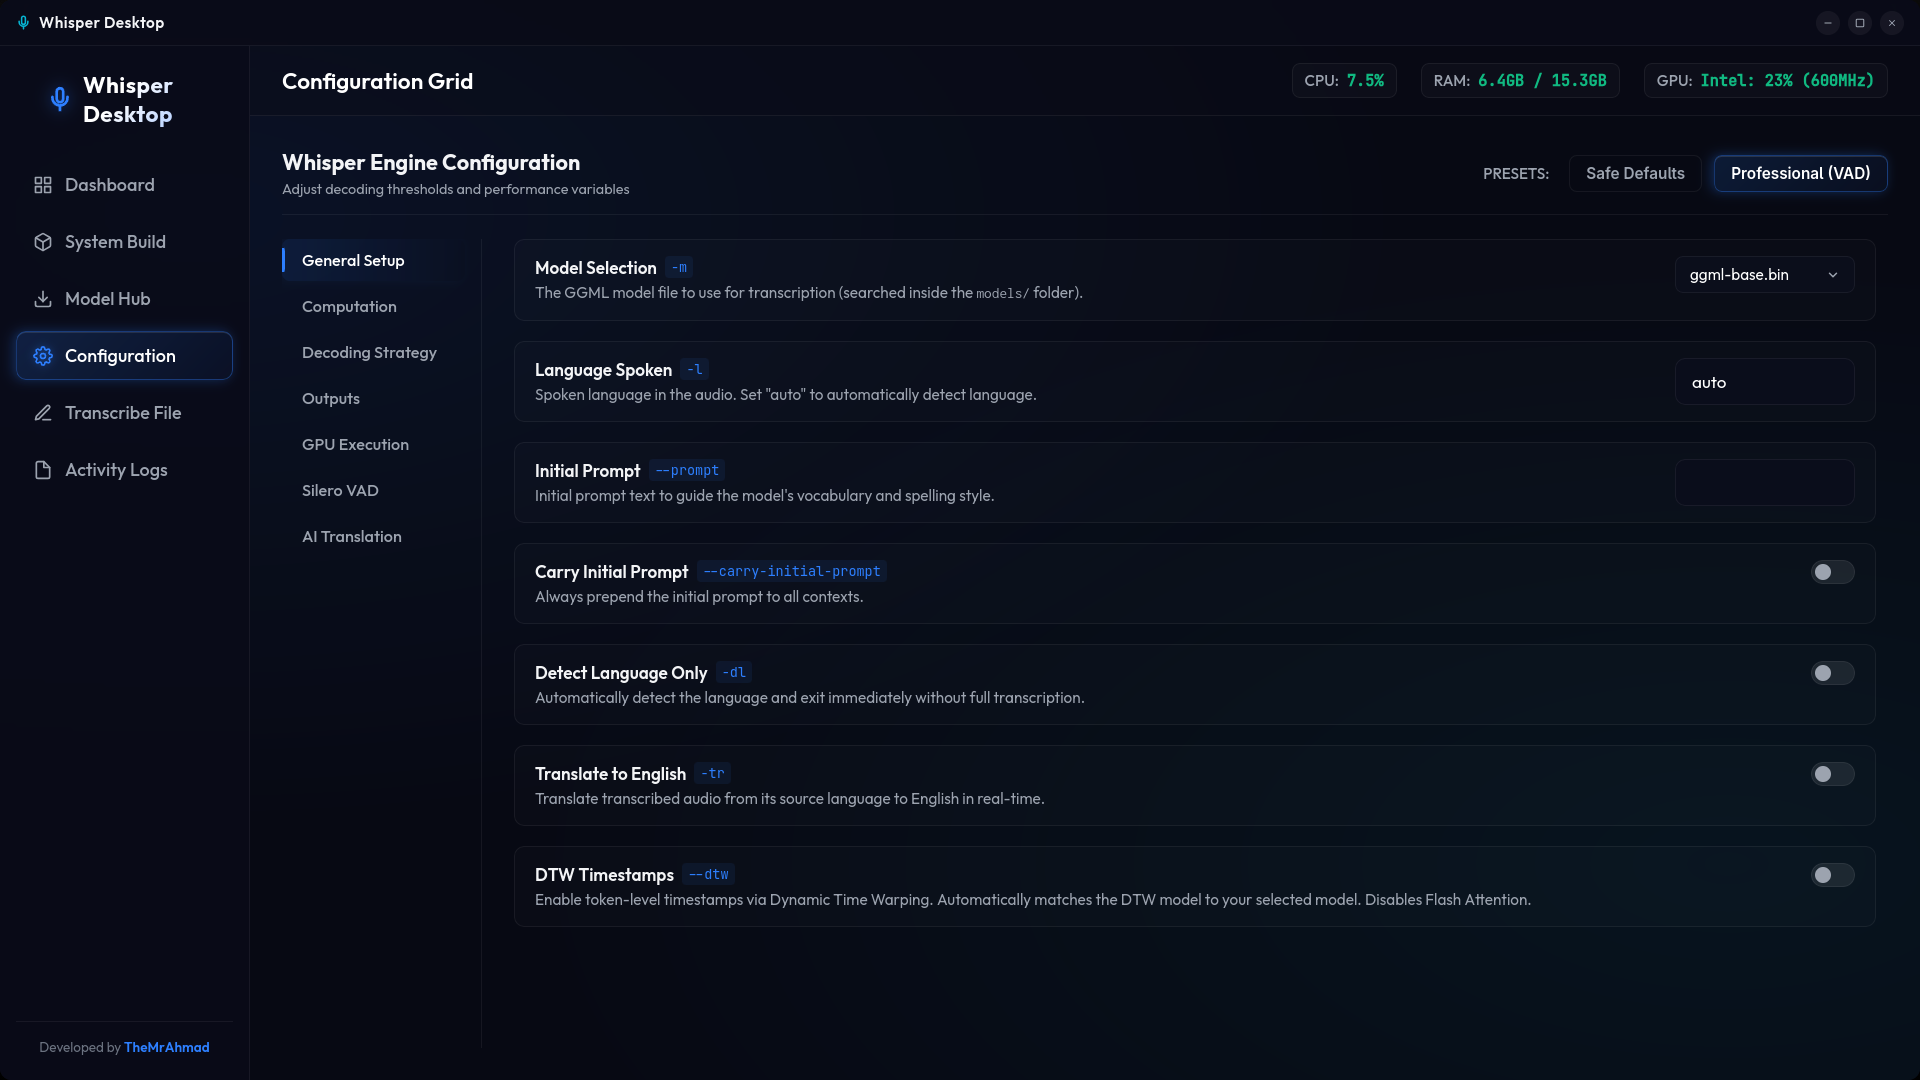
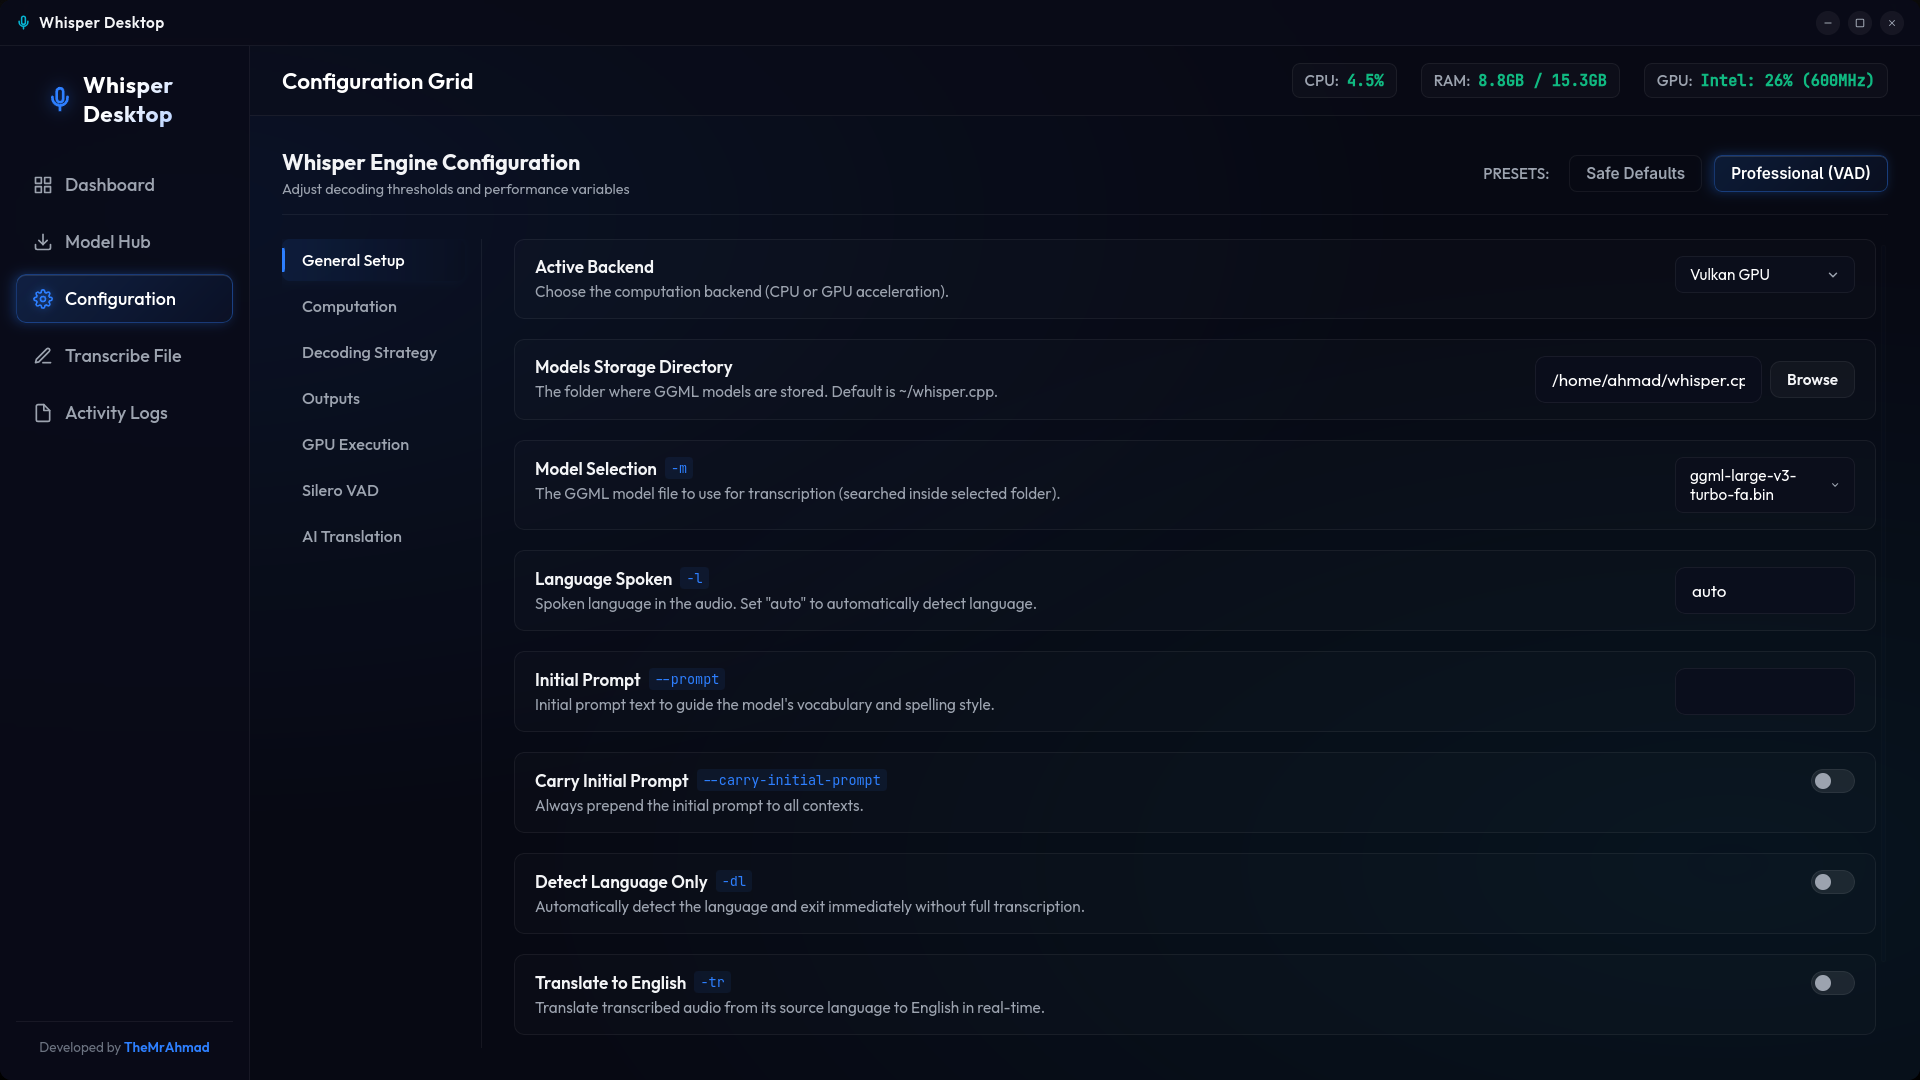
docs: update README screenshots layout and refresh all screenshot assets for the new UI release

diff --git a/README.md b/README.md
@@ -19,19 +19,19 @@
 
 ## 📸 Screenshots & Visual Walkthrough
 
-| 🎛 Dashboard Home | 🏗 Build Screen |
+| 🎛 Dashboard Home | 🛠 Configuration Step |
 | :---: | :---: |
-| ![Dashboard Home](assets/screenshots/dashboard.png) | ![Build Screen](assets/screenshots/build.png) |
+| ![Dashboard Home](assets/screenshots/dashboard.png) | ![Configuration Step](assets/screenshots/configuration.png) |
 
-| 🛠 Configuration Step | 🎙 Transcription Screen |
+| 📥 Model Hub | 🎙 Transcription Screen |
 | :---: | :---: |
-| ![Configuration Step](assets/screenshots/configuration.png) | ![Transcription Screen](assets/screenshots/transcription.png) |
+| ![Model Hub](assets/screenshots/models.png) | ![Transcription Screen](assets/screenshots/transcription.png) |
 
 ---
 
 ## ✨ Features at a Glance
 
-*   **⚡ Multiple Acceleration Backends:** Choose between **CPU**, **Vulkan**, **OpenVINO**, or **CUDA** directly from the UI. *Note: Compiling the OpenVINO backend requires the OpenVINO package/SDK to be installed on your operating system.*
+*   **⚡ Multiple Acceleration Backends:** Choose between **CPU**, **Vulkan**, **OpenVINO**, or **CUDA** directly from the UI. *Note: Precompiled binaries for all backends are bundled directly inside the app, so no local compilation or system-level developer SDKs are required.*
 *   **📥 Integrated Model Downloader:** Browse and download GGML models from the UI with real-time speed, progress bars, and ETA tracking. Supports pause, resume, and delete.
 *   **📂 Batch Processing Queue:** Import multiple files, view duration, remove items, and transcribe them sequentially with detailed per-file progress.
 *   **🎞 Integrated Media Converter:** Auto-extract 16kHz mono WAV from any audio/video file via FFmpeg. Output is placed next to the source file or redirected to `~/Documents/WhisperOutputs/` if the source is outside your home directory.
@@ -100,6 +100,7 @@ Prerequisites:
 *   **Rust** toolchain (latest stable)
 *   **System Libraries:** `gtk3`, `webkit2gtk-4.1`, `ffmpeg`
 *   **Optional:** `wl-copy`, `xclip`, or `xsel` for clipboard support
+*   **Precompiled Binaries:** Since the app packages precompiled whisper.cpp binaries at runtime, you need to place a compiled `whisper-cli` binary (renamed to `whisper-cli-standard`, `whisper-cli-vulkan`, etc.) inside the `src-tauri/resources/` folder before running or building.
 
 ### 1. Clone the Repository
 ```bash
